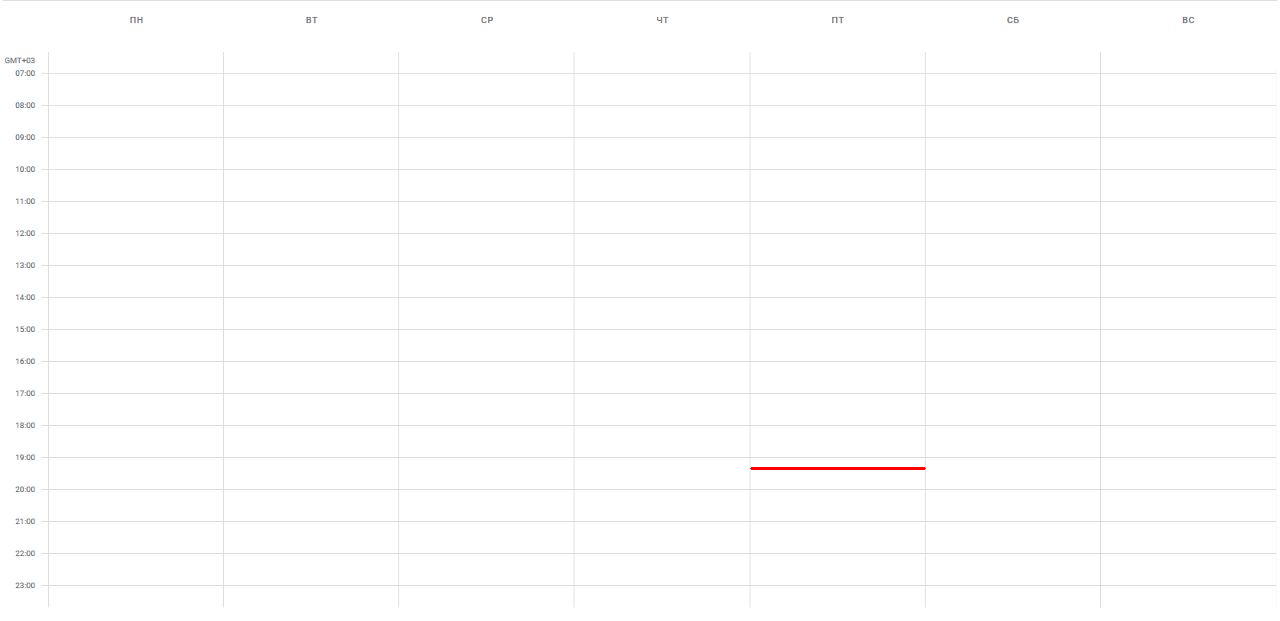
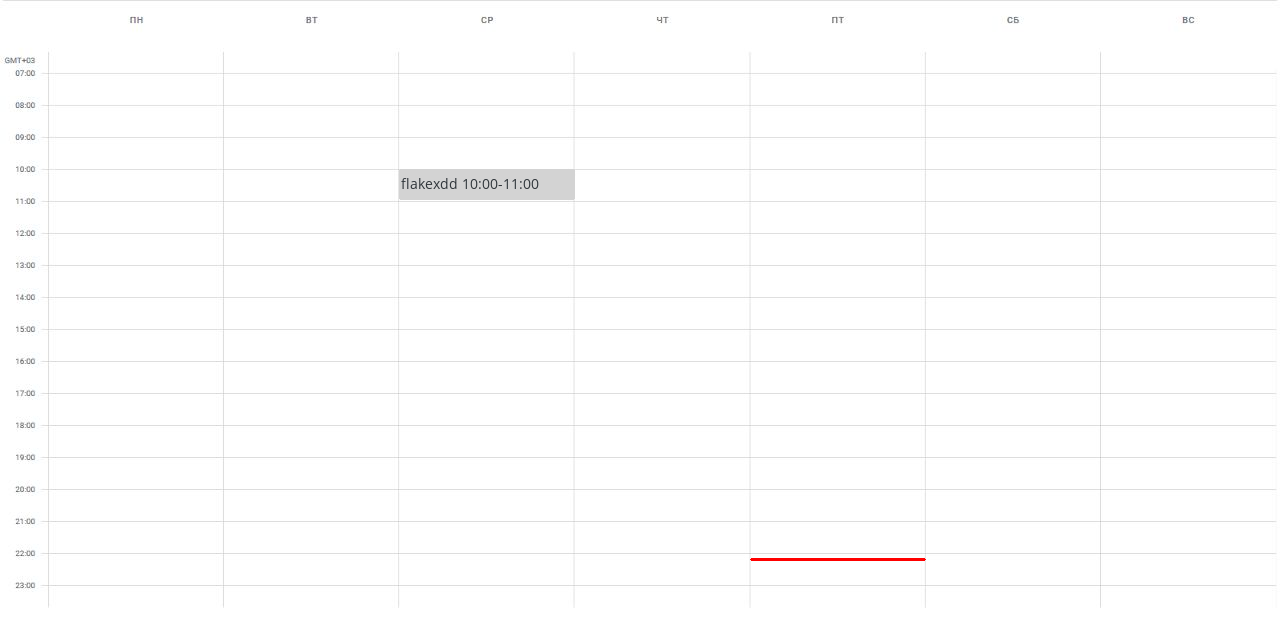
fix: fix booking display, take into account current_week param

Changed region(s): [[0.3125, 0.2754, 0.4688, 0.3366], [0.5938, 0.8873, 0.7188, 0.9179], [0.5938, 0.7343, 0.7188, 0.7649]]

diff --git a/src/repositories/bookings/repository.py b/src/repositories/bookings/repository.py
@@ -32,12 +32,11 @@ class SqlBookingRepository(AbstractBookingRepository):
             await session.commit()
             return ViewBooking.model_validate(obj)
 
-    async def get_bookings_for_current_week(self) -> list[ViewBooking]:
+    async def get_bookings_for_current_week(self, current_week: bool) -> list[ViewBooking]:
         async with (self._create_session() as session):
-            current_datetime = datetime.datetime.now()
             next_week_delta = 0
 
-            if current_datetime.weekday() == 6 and current_datetime.hour >= 22 and current_datetime.minute >= 30:
+            if not current_week:
                 next_week_delta = 7
             today = date.today()
             start_of_week = (today - timedelta(days=today.weekday())) + timedelta(days=next_week_delta)
@@ -70,7 +69,7 @@ class SqlBookingRepository(AbstractBookingRepository):
             obj = await session.scalar(query)
             return ViewParticipantBeforeBooking.model_validate(obj)
 
-    async def form_schedule(self):
+    async def form_schedule(self, current_week: bool) -> str:
         xbase = 48  # origin for x
         ybase = 73  # origin for y
         xsize = 175.5  # length of the rect by x-axis
@@ -89,7 +88,7 @@ class SqlBookingRepository(AbstractBookingRepository):
 
         fontSimple = ImageFont.truetype("src/repositories/bookings/open_sans.ttf", size=14)
 
-        bookings = await self.get_bookings_for_current_week()
+        bookings = await self.get_bookings_for_current_week(current_week)
 
         for booking in bookings:
             day = booking.time_start.weekday()
@@ -134,4 +133,4 @@ class SqlBookingRepository(AbstractBookingRepository):
 
         image_base64 = base64.b64encode(image_stream).decode('utf-8')
 
-        return JSONResponse(image_base64)
+        return image_base64

diff --git a/src/repositories/bookings/abc.py b/src/repositories/bookings/abc.py
@@ -12,7 +12,7 @@ class AbstractBookingRepository(metaclass=ABCMeta):
         ...
 
     @abstractmethod
-    async def get_bookings_for_current_week(self):
+    async def get_bookings_for_current_week(self, current_week: bool):
         ...
 
     @abstractmethod
@@ -28,5 +28,5 @@ class AbstractBookingRepository(metaclass=ABCMeta):
         ...
 
     @abstractmethod
-    async def form_schedule(self):
+    async def form_schedule(self, current_week: bool) -> str:
         ...

diff --git a/src/api/bookings/routes.py b/src/api/bookings/routes.py
@@ -58,5 +58,5 @@ async def delete_booking(
 
 
 @router.get("/form_schedule")
-async def form_schedule(booking_repository: BOOKING_REPOSITORY_DEPENDENCY):
-    return await booking_repository.form_schedule()
+async def form_schedule(booking_repository: BOOKING_REPOSITORY_DEPENDENCY, current_week: bool) -> str:
+    return await booking_repository.form_schedule(current_week)

diff --git a/src/api/tools/utils.py b/src/api/tools/utils.py
@@ -31,7 +31,7 @@ def max_hours_to_book_per_week(status: str):
 async def count_duration(start_time: datetime.datetime, end_time: datetime.datetime):
     duration = end_time - start_time
     seconds = duration.seconds
-    minutes = seconds // 60
+    minutes = seconds // 60 - 1
     hours = minutes / 60
     return hours
 
